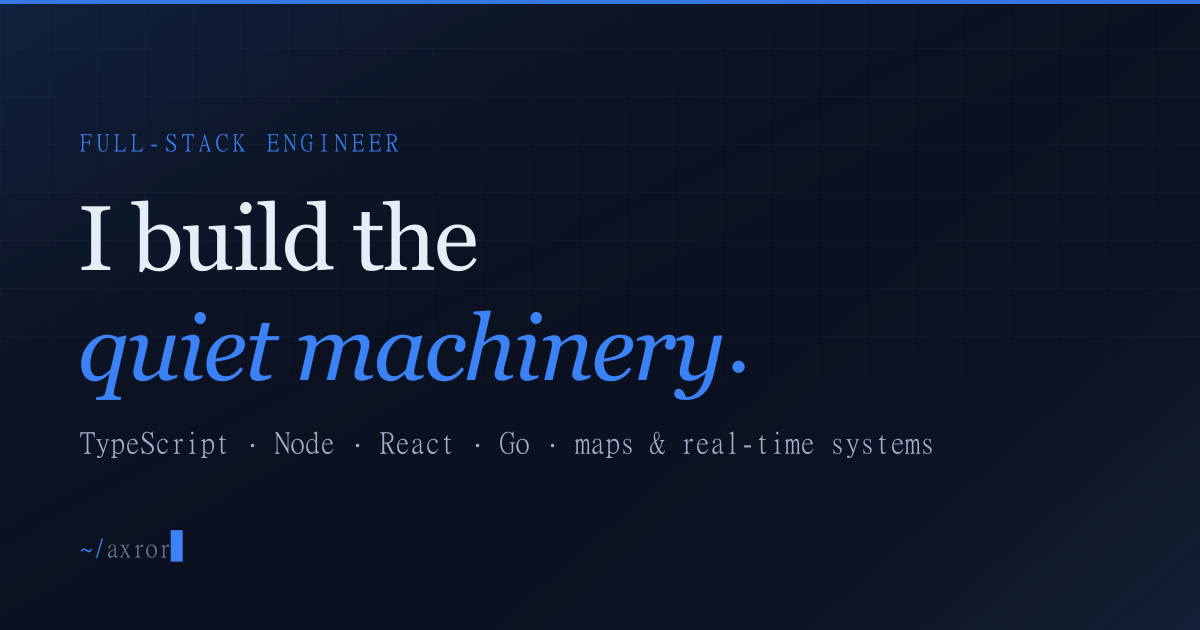
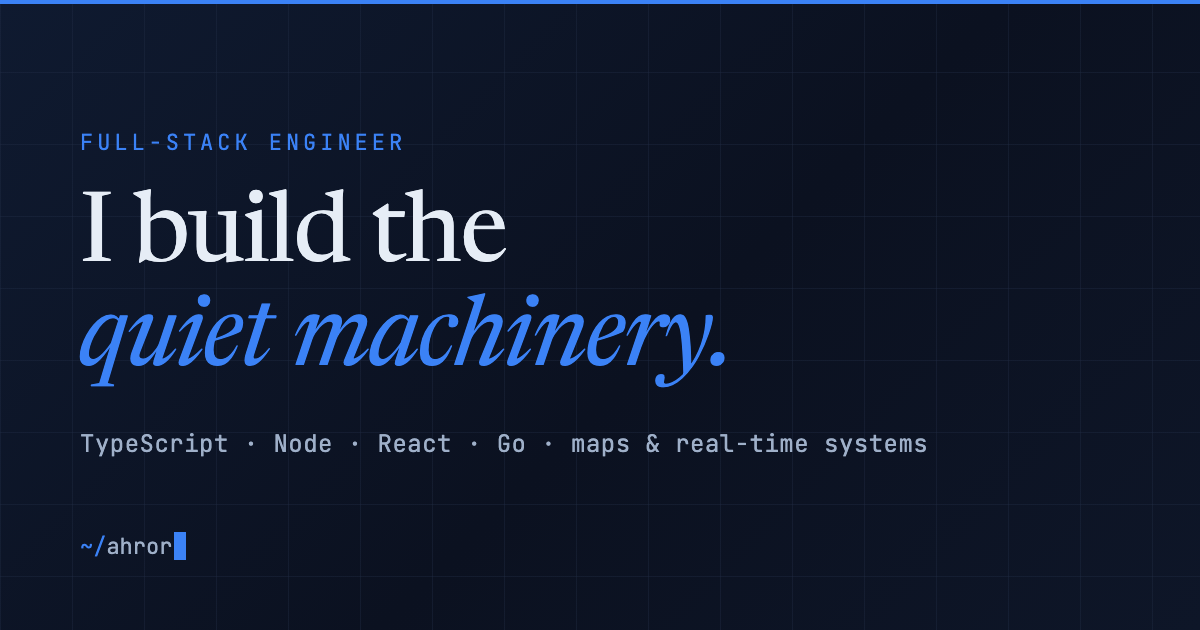
Spell the short name Ahror across the site
Matches the passport spelling now used on the CV. Tab titles, the
link-preview text, the navbar logo and the share image say Ahror, and
the homepage photo's alt text uses the full name, Ahrorjon Kurbanov.

The share image had the old name baked in and no source file, so it was
redrawn at the same 1200x630 with the site's fonts and colours.

The email address and LinkedIn link keep "axror": they are real account
addresses.

diff --git a/portfolio-web/app/layout.tsx b/portfolio-web/app/layout.tsx
@@ -26,13 +26,13 @@ const sans = Instrument_Sans({
 
 export const metadata: Metadata = {
   title: {
-    default: "Axror — Full-Stack Engineer",
-    template: "%s · Axror",
+    default: "Ahror — Full-Stack Engineer",
+    template: "%s · Ahror",
   },
   description:
     "Full-stack engineer — TypeScript, Node, React, Go. Field notes from real work: weekly logs, deep dives, and shipped projects.",
   openGraph: {
-    title: "Axror — Full-Stack Engineer",
+    title: "Ahror — Full-Stack Engineer",
     description:
       "Full-stack engineer — TypeScript, Node, React, Go, and a lot of maps. Field notes from real work.",
     type: "website",
@@ -41,13 +41,13 @@ export const metadata: Metadata = {
         url: "/og-image.png",
         width: 1200,
         height: 630,
-        alt: "Axror — Full-Stack Engineer",
+        alt: "Ahror — Full-Stack Engineer",
       },
     ],
   },
   twitter: {
     card: "summary_large_image",
-    title: "Axror — Full-Stack Engineer",
+    title: "Ahror — Full-Stack Engineer",
     description:
       "Full-stack engineer — TypeScript, Node, React, Go, and a lot of maps.",
     images: ["/og-image.png"],

diff --git a/portfolio-web/components/layout/navbar.tsx b/portfolio-web/components/layout/navbar.tsx
@@ -12,7 +12,7 @@ export function Navbar() {
         >
           <span className="text-accent">~/</span>
           <span className="text-foreground transition-colors group-hover:text-accent">
-            Axror
+            Ahror
           </span>
           <span className="animate-blink text-accent">▊</span>
         </Link>

diff --git a/portfolio-web/app/[locale]/(public)/page.tsx b/portfolio-web/app/[locale]/(public)/page.tsx
@@ -34,7 +34,7 @@ export default async function HomePage({
         <div className="animate-fade-up">
           <Image
             src="/avatar.jpg"
-            alt="Axror Kurbanov"
+            alt="Ahrorjon Kurbanov"
             width={320}
             height={320}
             priority
